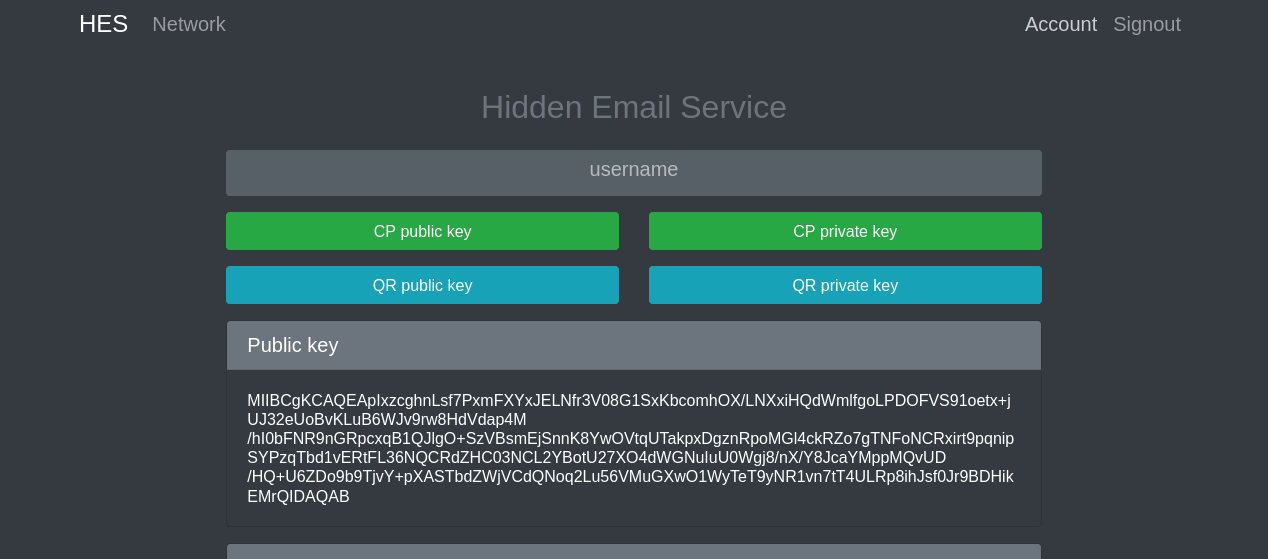
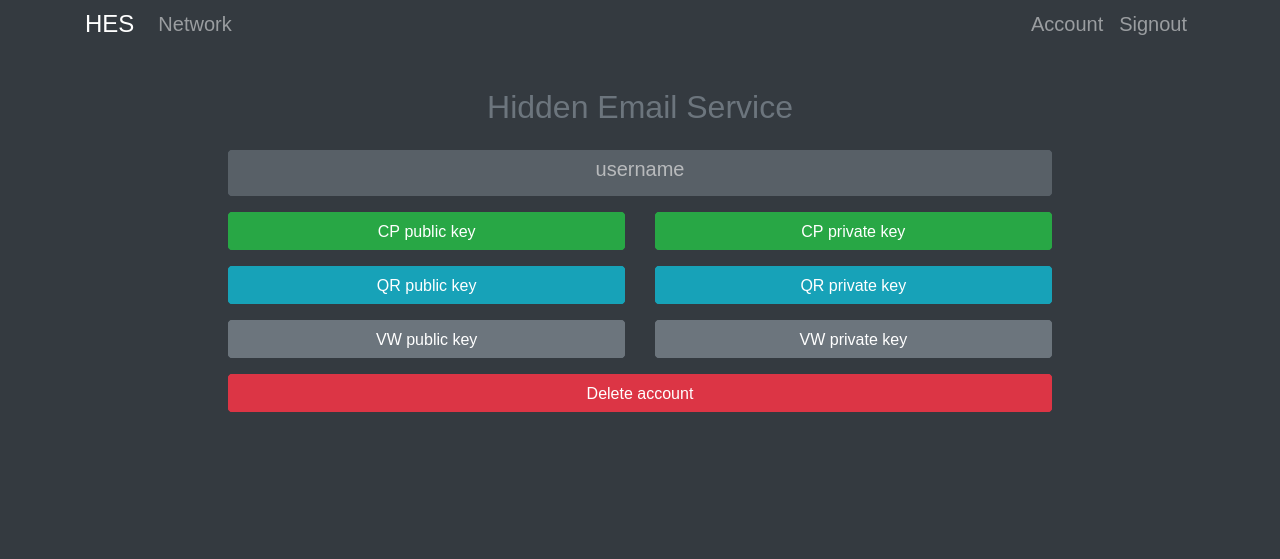
keys are hidden in account

diff --git a/userside/views/account.html b/userside/views/account.html
@@ -9,10 +9,10 @@
 	</div>
 	<div class="form-group row">
 		<div class="col-md-6 w-50">
-			<button type="button" class="btn btn-success w-100" onclick="copy_public_key()">CP public key</button>
+			<button type="button" class="btn btn-success w-100" onclick="copy_text('public_key')">CP public key</button>
 		</div>
 		<div class="col-md-6 w-50">
-			<button type="button" class="btn btn-success w-100" onclick="copy_private_key()">CP private key</button>
+			<button type="button" class="btn btn-success w-100" onclick="copy_text('private_key')">CP private key</button>
 		</div>
 	</div>
 	<div class="form-group row">
@@ -27,29 +27,47 @@
 			</form>
 		</div>
 	</div>
-	<div class="card text-white bg-dark mb-3">
-		<h5 class="card-header bg-secondary">Public key</h5>
-		<div class="card-body">
+	<div class="form-group row">
+		<div class="col-md-6 w-50">
+			<button type="button" class="btn btn-secondary w-100" onclick="view_block('view_public_key'); close_block('view_private_key')">VW public key</button>
+		</div>
+		<div class="col-md-6 w-50">
+			<button type="button" class="btn btn-secondary w-100" onclick="view_block('view_private_key'); close_block('view_public_key')">VW private key</button>
+		</div>
+	</div>
+	<div id="view_public_key" style="display: none" class="card text-white bg-dark mb-3">
+		<div class="card-header">
 			<h6 class="card-text">{{ .PublicKey }}</h6>
 		</div>
 	</div>
-	<div class="card text-white bg-dark mb-3">
-		<h5 class="card-header bg-secondary">Private key</h5>
-		<div class="card-body">
+	<div id="view_private_key" style="display: none" class="card text-white bg-dark mb-3">
+		<div class="card-header">
 			<h6 class="card-text">{{ .PrivateKey }}</h6>
 		</div>
 	</div>
 	<div class="form-group">
-			<button type="button" class="btn btn-danger w-100" onclick="hide_input()">Delete account</button>
+		<button type="button" class="btn btn-danger w-100" onclick="view_block('input_password')">Delete account</button>
 	</div>
-	<div id="input_password" class="form-group"></div>
+	<div id="input_password" style="display: none" class="form-group">
+		<form id='password-form' class="text-center" method="POST" action="/account">
+			<div class="form-group">
+				<input type='text' class='form-control bg-dark text-light' name='username' placeholder='Username'>
+			</div>
+			<div class="form-group">
+				<input type='password' class='form-control bg-dark text-light' name='password' placeholder='Password'>
+			</div>
+			<div class="form-group">
+				<input type="submit" name="delete" value="Confirm deletion " class="btn btn-warning w-100">
+			</div>
+		</form>
+	</div>
 	<div style="opacity:0">
 		<input id="private_key" type="text" value="{{ .PrivateKey }}">
 		<input id="public_key" type="text" value="{{ .PublicKey }}">
 	</div>
 	<script type="text/javascript">
-		function copy_public_key() {
-			var copyText = document.getElementById("public_key");
+		function copy_text(id) {
+			var copyText = document.getElementById(id);
 			copyText.select();
 			document.execCommand("copy");
 			let newInput = `
@@ -57,45 +75,21 @@
 				<button type="button" class="close" data-dismiss="alert" aria-label="Close">
 					<span aria-hidden="true">&times;</span>
 				</button>
-				Public key copied
+				Key copied
 			</div>
 			`
 			document.getElementById("message_copy").innerHTML = newInput;
-		} 
-		function copy_private_key() {
-			var copyText = document.getElementById("private_key");
-			copyText.select();
-			document.execCommand("copy");
-			let newInput = `
-			<div class="alert alert-success" role="alert">
-				<button type="button" class="close" data-dismiss="alert" aria-label="Close">
-					<span aria-hidden="true">&times;</span>
-				</button>
-				Private key copied
-			</div>
-			`
-			document.getElementById("message_copy").innerHTML = newInput;
-		} 
-		function hide_input() {
-			let elem = document.getElementById("password-form");
-			if (elem) {
-				document.getElementById("password-form").remove();
-			} else {
-				let newInput = `
-				<form id='password-form' class="text-center" method="POST" action="/account">
-					<div class="form-group">
-						<input type='text' class='form-control bg-dark text-light' name='username' placeholder='Username'>
-					</div>
-					<div class="form-group">
-						<input type='password' class='form-control bg-dark text-light' name='password' placeholder='Password'>
-					</div>
-					<div class="form-group">
-						<input type="submit" name="delete" value="Confirm deletion " class="btn btn-warning w-100">
-					</div>
-				</form>
-				`;
-				document.getElementById("input_password").innerHTML = newInput;
-			}
+		}
+		function view_block(id) {
+			var e = document.getElementById(id);
+			if(e.style.display == 'block')
+				e.style.display = 'none';
+			else
+				e.style.display = 'block';
+		}
+		function close_block(id) {
+			var e = document.getElementById(id);
+			e.style.display = 'none';
 		}
 	</script>
 {{ end }}
